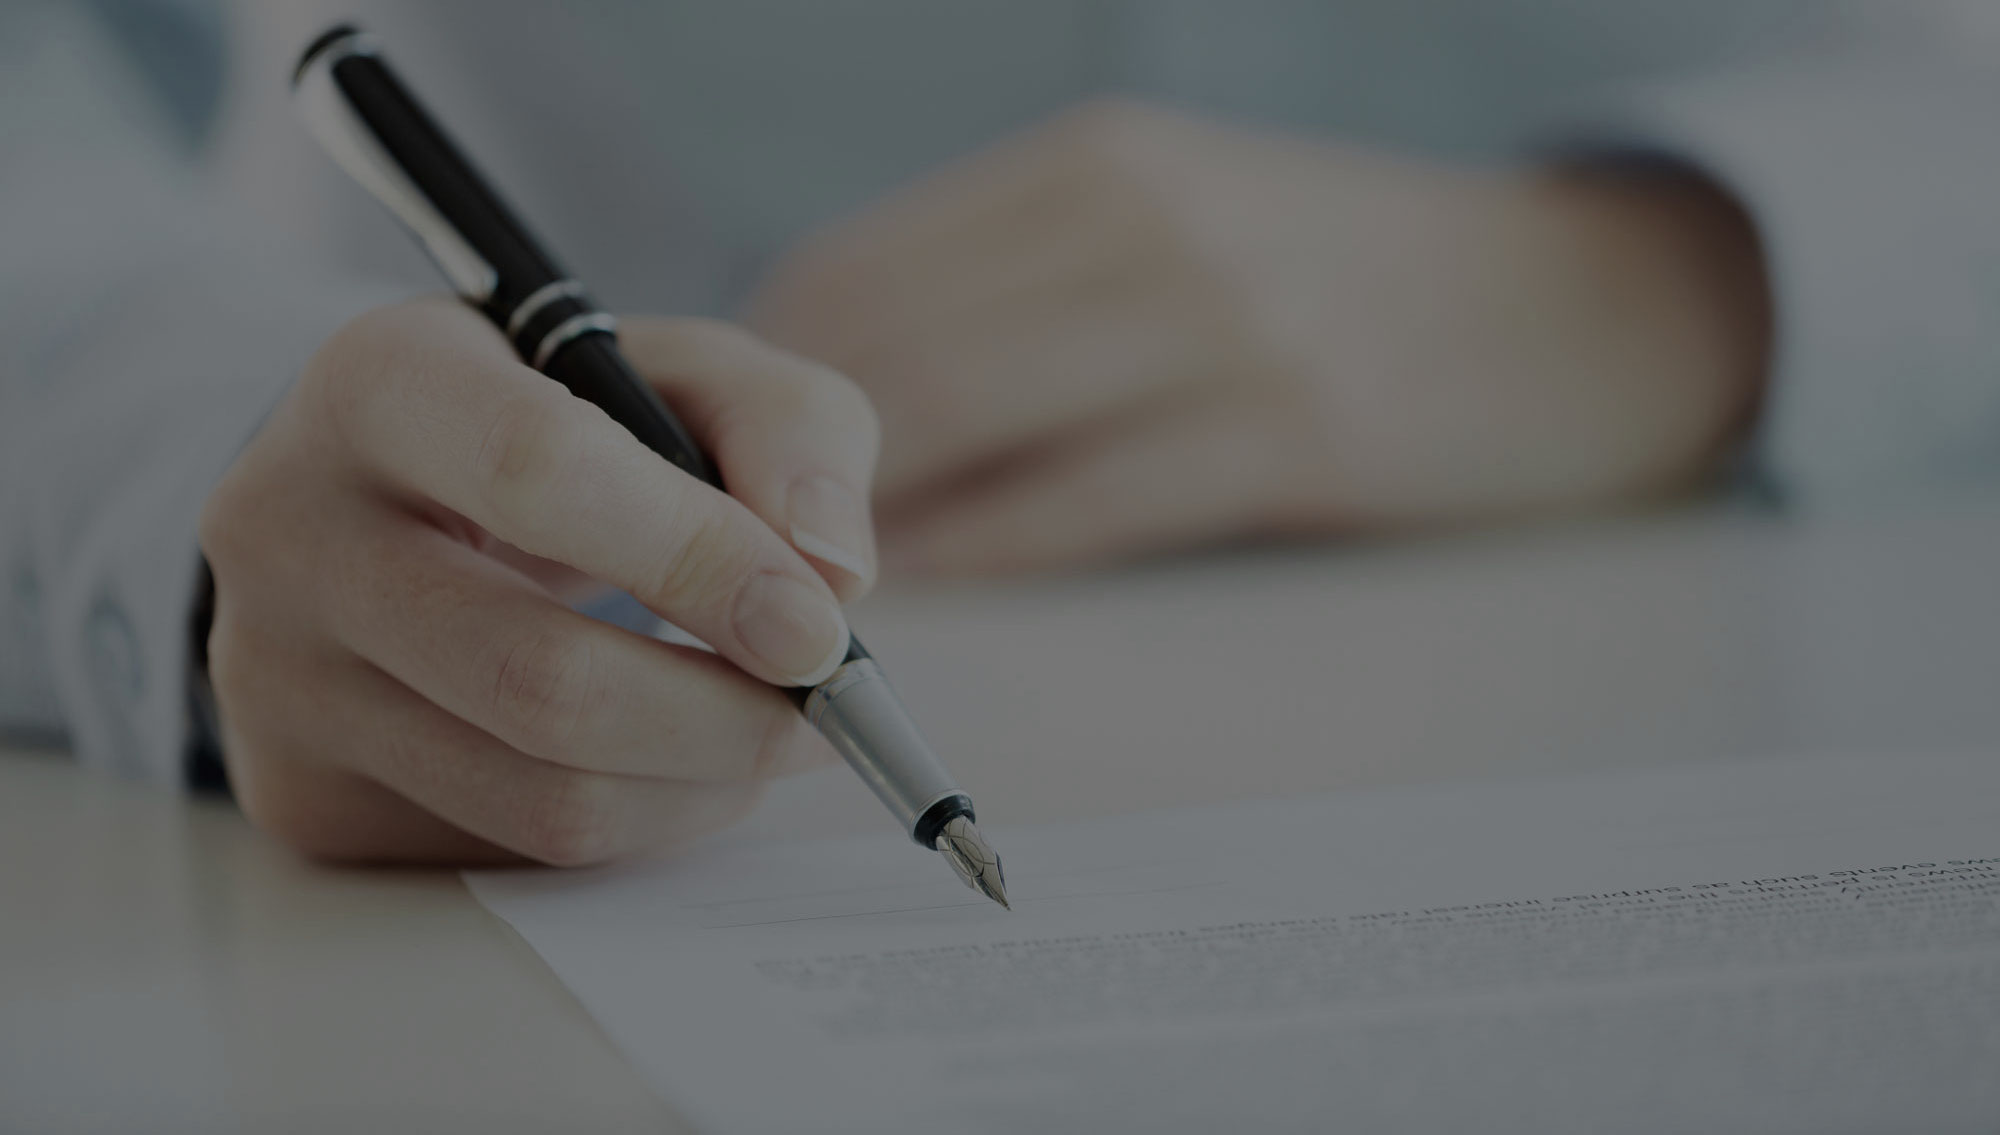
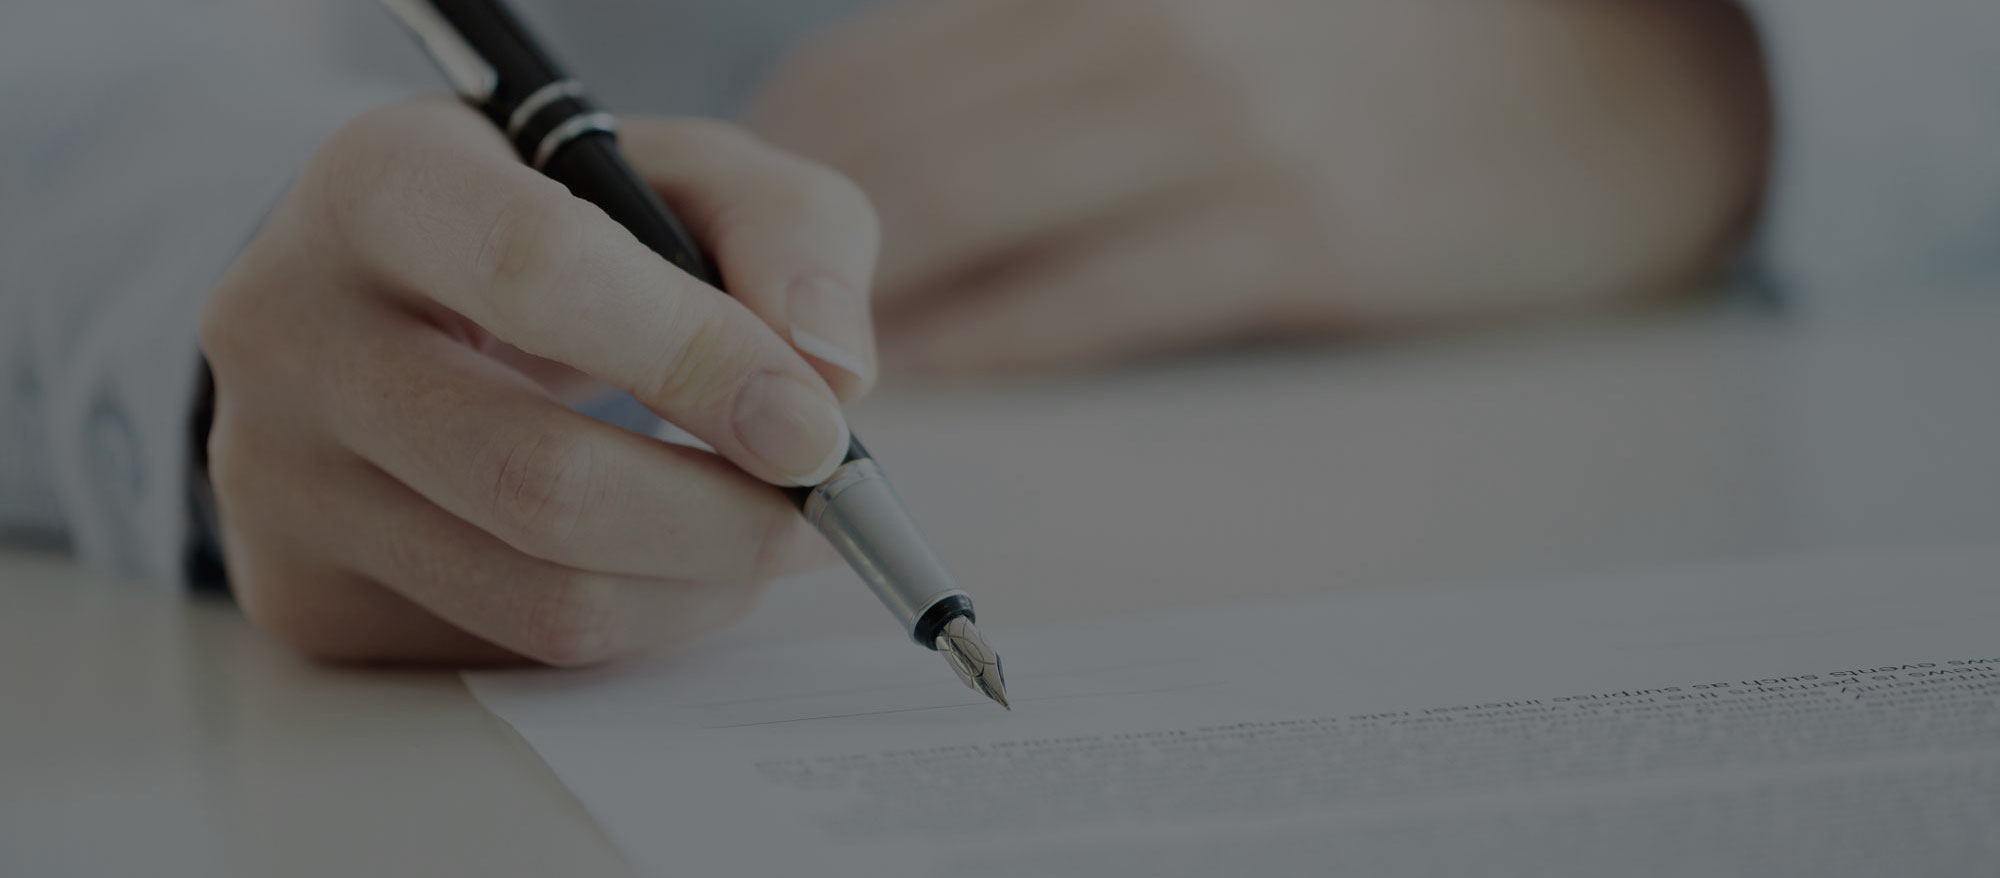
Removed Melanie from home page

diff --git a/css/landing-page.css b/css/landing-page.css
@@ -56,8 +56,8 @@ body ul {
 
 .intro-message {
     position: relative;
-    padding-top: 20%;
-    padding-bottom: 20%;
+    padding-top: 15%;
+    padding-bottom: 15%;
 }
 
 .intro-message-page {
